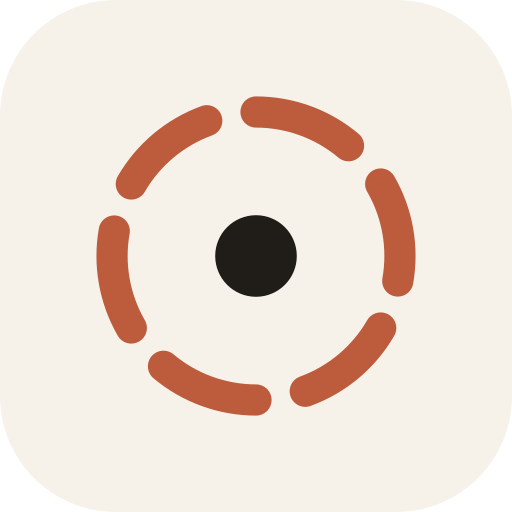
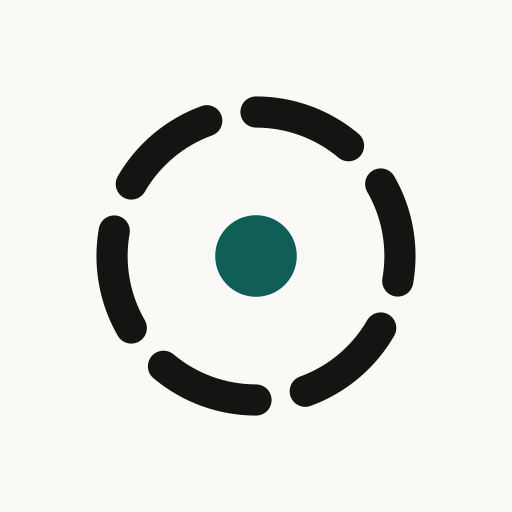
brand: put the PWA surface on the petrol roles
BR-1: move icons, manifest, theme-color and mask-icon from the old
terracotta/cream palette to paper, ink, brand and brand-fg; regenerate
the PNGs and flatten the transparent corners so the touch icon is opaque.

BR-2: drop maximum-scale/user-scalable from the viewport; pinch zoom is
allowed again.

BR-3: pin theme-color to the in-app appearance, reading --background so
the system bar cannot drift from the page; system keeps the media pair.

BR-4: remove the unused clay compatibility aliases; the lab swatches now
paint themselves from each preset's own --brand token instead of hex.

BR-5: state petrol/clay roles in the README and collapse the dev-only
brand lab to a no-op outside dev so it is tree-shaken from production.

diff --git a/src/components/dev/brand-lab.tsx b/src/components/dev/brand-lab.tsx
@@ -1,25 +1,22 @@
 import { useState } from 'react'
-import { BRANDS, applyBrand, isBrand, type Brand } from '@/lib/brand'
+import { BRANDS, DEFAULT_BRAND, applyBrand, isBrand, type Brand } from '@/lib/brand'
 
-const SWATCH: Record<Brand, string> = {
-  petrol: '#0f5f57',
-  clay: '#d97757',
-  okra: '#9c6116',
-  lapis: '#2a4c8f',
-  saffron: '#c98a1c',
+const LABELS: Record<Brand, string> = {
+  petrol: 'Petrol (default)',
+  clay: 'Clay (experiment)',
+  okra: 'Okra',
+  lapis: 'Lapis',
+  saffron: 'Saffron',
 }
 
-/**
- * Dev-only palette switcher. Mount it with `?brandlab=1` so it never shows up in
- * screenshots or a normal run.
- */
-export function BrandLab() {
-  const [active, setActive] = useState<Brand>(() => {
-    const current = new URLSearchParams(window.location.search).get('brand')
-    return isBrand(current) ? current : 'petrol'
-  })
+function activeBrand(): Brand {
+  const applied = document.documentElement.dataset.brand ?? null
+  return isBrand(applied) ? applied : DEFAULT_BRAND
+}
 
-  if (!import.meta.env.DEV) return null
+function BrandLabSwitcher() {
+  const [active, setActive] = useState<Brand>(activeBrand)
+
   if (!new URLSearchParams(window.location.search).has('brandlab')) return null
 
   return (
@@ -28,18 +25,28 @@ export function BrandLab() {
         <button
           key={brand}
           type="button"
+          // Each swatch carries the preset's own data-brand, so its fill comes
+          // from that preset's --brand token instead of a hardcoded hex.
+          data-brand={brand}
           onClick={() => {
             applyBrand(brand)
             setActive(brand)
           }}
-          title={brand}
-          aria-label={brand}
+          title={LABELS[brand]}
+          aria-label={LABELS[brand]}
           aria-pressed={active === brand}
           className="size-7 rounded-full ring-2 ring-transparent transition-transform active:scale-90 data-[active=true]:ring-white"
           data-active={active === brand}
-          style={{ backgroundColor: SWATCH[brand] }}
+          style={{ backgroundColor: 'var(--brand)' }}
         />
       ))}
     </div>
   )
 }
+
+/**
+ * Dev-only palette switcher. Mount it with `?brandlab=1` so it never shows up in
+ * screenshots or a normal run. The export collapses to a no-op outside dev, so
+ * the switcher and its preset labels are tree-shaken out of production builds.
+ */
+export const BrandLab = import.meta.env.DEV ? BrandLabSwitcher : () => null

diff --git a/src/components/layout/appearance-sync.tsx b/src/components/layout/appearance-sync.tsx
@@ -1,6 +1,46 @@
 import { useEffect } from 'react'
 import { usePreferences } from '@/store/preferences'
 
+/**
+ * Keep the browser/PWA system-bar colour in step with the in-app appearance.
+ *
+ * `index.html` ships a media-query pair (paper / dark paper) so the status bar
+ * is right before React mounts. An explicit light or dark choice is not the OS
+ * preference, so it silences both media-scoped tags and pins the page
+ * background; `system` restores the pair. The colour is read from the
+ * `--background` token so the page and the system bar cannot drift apart.
+ */
+function syncThemeColor(explicit: 'light' | 'dark' | null) {
+  const scoped = Array.from(
+    document.querySelectorAll<HTMLMetaElement>('meta[data-theme-color]'),
+  ).filter((meta) => meta.dataset.themeColor !== 'explicit')
+
+  for (const meta of scoped) {
+    const scheme = meta.dataset.themeColor === 'dark' ? 'dark' : 'light'
+    meta.media = explicit ? 'not all' : `(prefers-color-scheme: ${scheme})`
+  }
+
+  const pinned = document.querySelector<HTMLMetaElement>('meta[data-theme-color="explicit"]')
+
+  if (!explicit) {
+    pinned?.remove()
+    return
+  }
+
+  const paper = getComputedStyle(document.documentElement)
+    .getPropertyValue('--background')
+    .trim()
+  if (!paper) return
+
+  const meta = pinned ?? document.createElement('meta')
+  if (!pinned) {
+    meta.name = 'theme-color'
+    meta.dataset.themeColor = 'explicit'
+    document.head.append(meta)
+  }
+  meta.content = paper
+}
+
 export function AppearanceSync() {
   const appearance = usePreferences((state) => state.appearance)
 
@@ -11,6 +51,7 @@ export function AppearanceSync() {
       const dark = appearance === 'dark' || (appearance === 'system' && media.matches)
       document.documentElement.classList.toggle('dark', dark)
       document.documentElement.style.colorScheme = dark ? 'dark' : 'light'
+      syncThemeColor(appearance === 'system' ? null : appearance)
     }
 
     apply()

diff --git a/index.html b/index.html
@@ -2,14 +2,26 @@
 <html lang="en">
   <head>
     <meta charset="UTF-8" />
-    <meta
-      name="viewport"
-      content="width=device-width, initial-scale=1, viewport-fit=cover, maximum-scale=1, user-scalable=no"
-    />
+    <meta name="viewport" content="width=device-width, initial-scale=1, viewport-fit=cover" />
     <meta name="color-scheme" content="light dark" />
     <script src="/theme-init.js"></script>
-    <meta name="theme-color" media="(prefers-color-scheme: light)" content="#f6f2e9" />
-    <meta name="theme-color" media="(prefers-color-scheme: dark)" content="#171512" />
+    <!--
+      Paper and dark paper from DESIGN.md. The pair follows the OS by default;
+      AppearanceSync silences both and pins one value when the traveller picks
+      light or dark in the app.
+    -->
+    <meta
+      name="theme-color"
+      media="(prefers-color-scheme: light)"
+      content="#faf9f5"
+      data-theme-color="light"
+    />
+    <meta
+      name="theme-color"
+      media="(prefers-color-scheme: dark)"
+      content="#1f1e1d"
+      data-theme-color="dark"
+    />
     <meta
       name="description"
       content="Nekibuki is a pocket guide for travellers: photograph a place and understand it."
@@ -21,7 +33,7 @@
     <meta name="format-detection" content="telephone=no" />
     <link rel="icon" type="image/svg+xml" href="/favicon.svg" />
     <link rel="apple-touch-icon" href="/apple-touch-icon-180x180.png" />
-    <link rel="mask-icon" href="/mask-icon.svg" color="#bd5b3d" />
+    <link rel="mask-icon" href="/mask-icon.svg" color="#0f5f57" />
     <title>Nekibuki — A guide in your pocket</title>
   </head>
   <body>

diff --git a/src/index.css b/src/index.css
@@ -35,10 +35,6 @@
   --brand-fg: #f2fbf8;
   --hud: #6cc0b0;
   --hud-fg: #141413;
-  /* Compatibility aliases: older components still speak in "clay". */
-  --clay: var(--brand);
-  --clay-ink: var(--brand-ink);
-  --clay-foreground: var(--brand-fg);
   --destructive: #c4472f;
   --destructive-foreground: #faf9f5;
   --border: #e8e6dc;
@@ -77,10 +73,12 @@
 }
 
 /*
- * Brand presets for the token lab.
+ * Brand presets for the colour lab.
  * Switch with ?brand=<name> (persisted) or by setting data-brand on <html>.
  * Each preset keeps the paper, the serif and the radii; only the hue moves.
- * Petrol is the default, so it needs no attribute.
+ * Petrol is the default (the documented identity); clay is the opt-in
+ * terracotta experiment. Every preset still needs all four roles, so a
+ * component never has to know which hue is active.
  */
 [data-brand='clay'] {
   --brand: #d97757;
@@ -158,9 +156,6 @@
   --color-brand-fg: var(--brand-fg);
   --color-hud: var(--hud);
   --color-hud-fg: var(--hud-fg);
-  --color-clay: var(--clay);
-  --color-clay-ink: var(--clay-ink);
-  --color-clay-foreground: var(--clay-foreground);
   --color-destructive: var(--destructive);
   --color-destructive-foreground: var(--destructive-foreground);
   --color-border: var(--border);

diff --git a/src/lib/brand.ts b/src/lib/brand.ts
@@ -3,11 +3,14 @@
  *
  * A preset only moves the hue: paper, serif, radii and layout stay put, so
  * variants can be compared fairly. Switch with `?brand=clay`, or leave it out
- * to keep the default petrol.
+ * to keep the documented default, petrol.
  */
 export const BRANDS = ['petrol', 'clay', 'okra', 'lapis', 'saffron'] as const
 
 export type Brand = (typeof BRANDS)[number]
+
+/** Petrol is the identity; the other presets are experiments. */
+export const DEFAULT_BRAND: Brand = 'petrol'
 
 const STORAGE_KEY = 'nekibuki.brand'
 
@@ -25,7 +28,7 @@ export function readBrand(): Brand | null {
 }
 
 export function applyBrand(brand: Brand) {
-  if (brand === 'petrol') {
+  if (brand === DEFAULT_BRAND) {
     delete document.documentElement.dataset.brand
   } else {
     document.documentElement.dataset.brand = brand
@@ -48,7 +51,7 @@ export function initBrand() {
 
   const stored = readBrand()
   if (stored) {
-    if (stored === 'petrol') delete document.documentElement.dataset.brand
+    if (stored === DEFAULT_BRAND) delete document.documentElement.dataset.brand
     else document.documentElement.dataset.brand = stored
   }
 }

diff --git a/vite.config.ts b/vite.config.ts
@@ -19,8 +19,8 @@ export default defineConfig({
         short_name: 'Nekibuki',
         description:
           'Point your camera at a place and understand it. Photo recognition and stories for travellers.',
-        theme_color: '#f6f2e9',
-        background_color: '#f6f2e9',
+        theme_color: '#faf9f5',
+        background_color: '#faf9f5',
         display: 'standalone',
         orientation: 'portrait',
         start_url: '/',

diff --git a/README.md b/README.md
@@ -125,7 +125,8 @@ a carousel library, so the animation stays interruptible mid-swipe.
 
 ## Tooling
 
-- `bun run icons` — regenerates the PWA icons in `public/` from the aperture mark drawn in code.
+- `bun run icons` — regenerates the PWA icons in `public/` from the aperture mark drawn in code
+  (`public/icon.svg`, `public/icon-maskable.svg`), using the paper, ink and petrol roles.
 - `bun run shots` — walks every screen with Playwright and writes screenshots to `SHOT_DIR`
   (needs a dev server on :5173).
 - `bun run brand:shots` — captures the same screens under every brand preset and writes a
@@ -137,8 +138,10 @@ The hue is a token, not a coat of paint. `src/index.css` gives it three roles:
 `--brand` (fills on paper), `--brand-ink` (text on paper) and `--hud` (marks over a photo),
 plus `--hud-fg` for the ink that sits on a HUD fill.
 
-The default is **petrol**. Presets live next to those tokens (`petrol`, `clay`, `okra`, `lapis`,
-`saffron`). Compare them without touching code:
+The default is **petrol** — the documented identity, and what the installed app, manifest,
+browser chrome and icons use. Presets live next to those tokens (`petrol`, `clay`, `okra`,
+`lapis`, `saffron`); `clay` is the opt-in terracotta experiment and never the default. Compare
+them without touching code:
 
 ```bash
 bun run dev:web
@@ -147,7 +150,7 @@ open 'http://localhost:5173/?brandlab=1'     # floating switcher, dev only
 ```
 
 The choice is persisted in `localStorage`; omit the parameter (or use `?brand=petrol`) to return
-to the default.
+to the default. The floating switcher is compiled out of production builds.
 
 ## Design context
 
